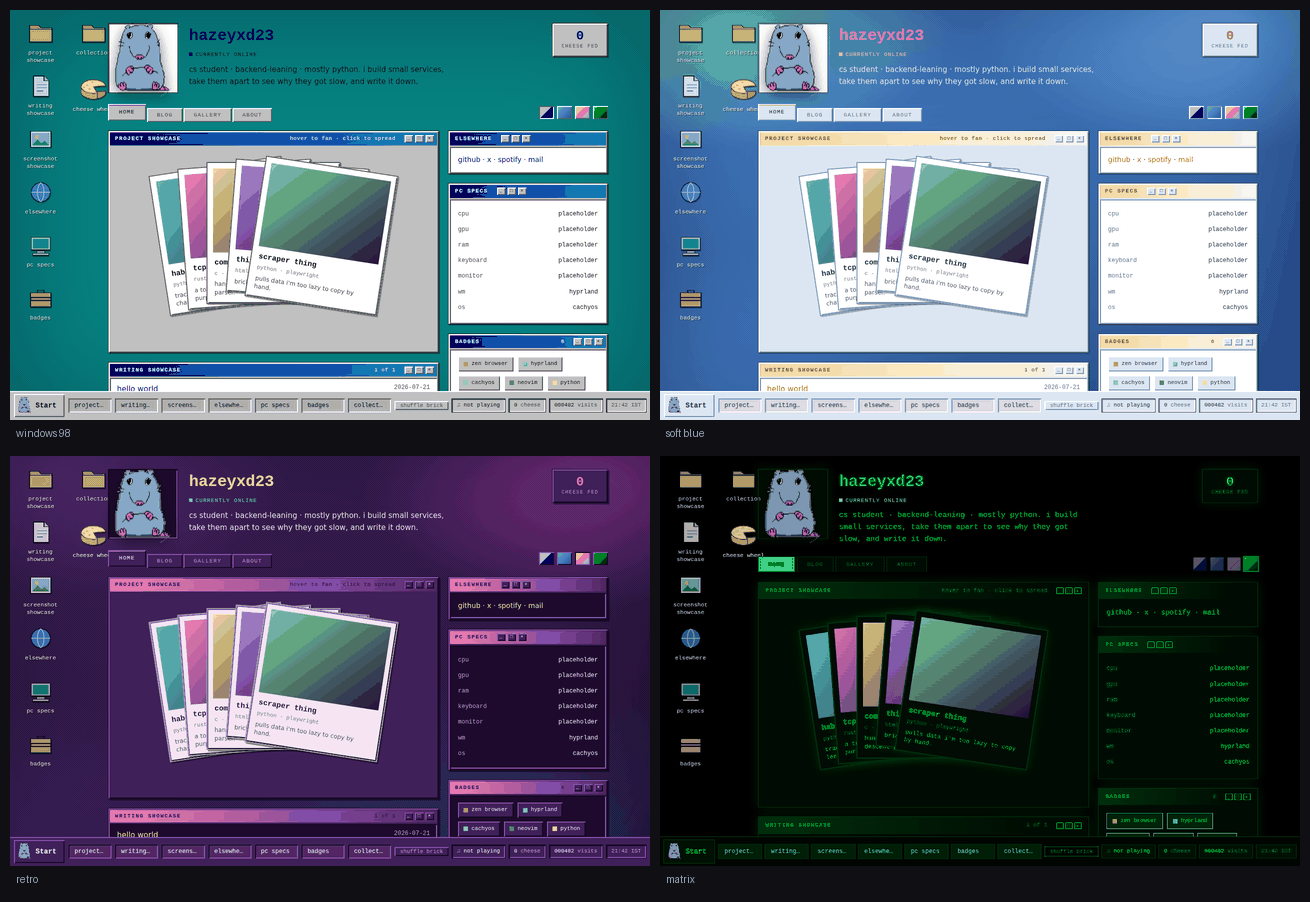
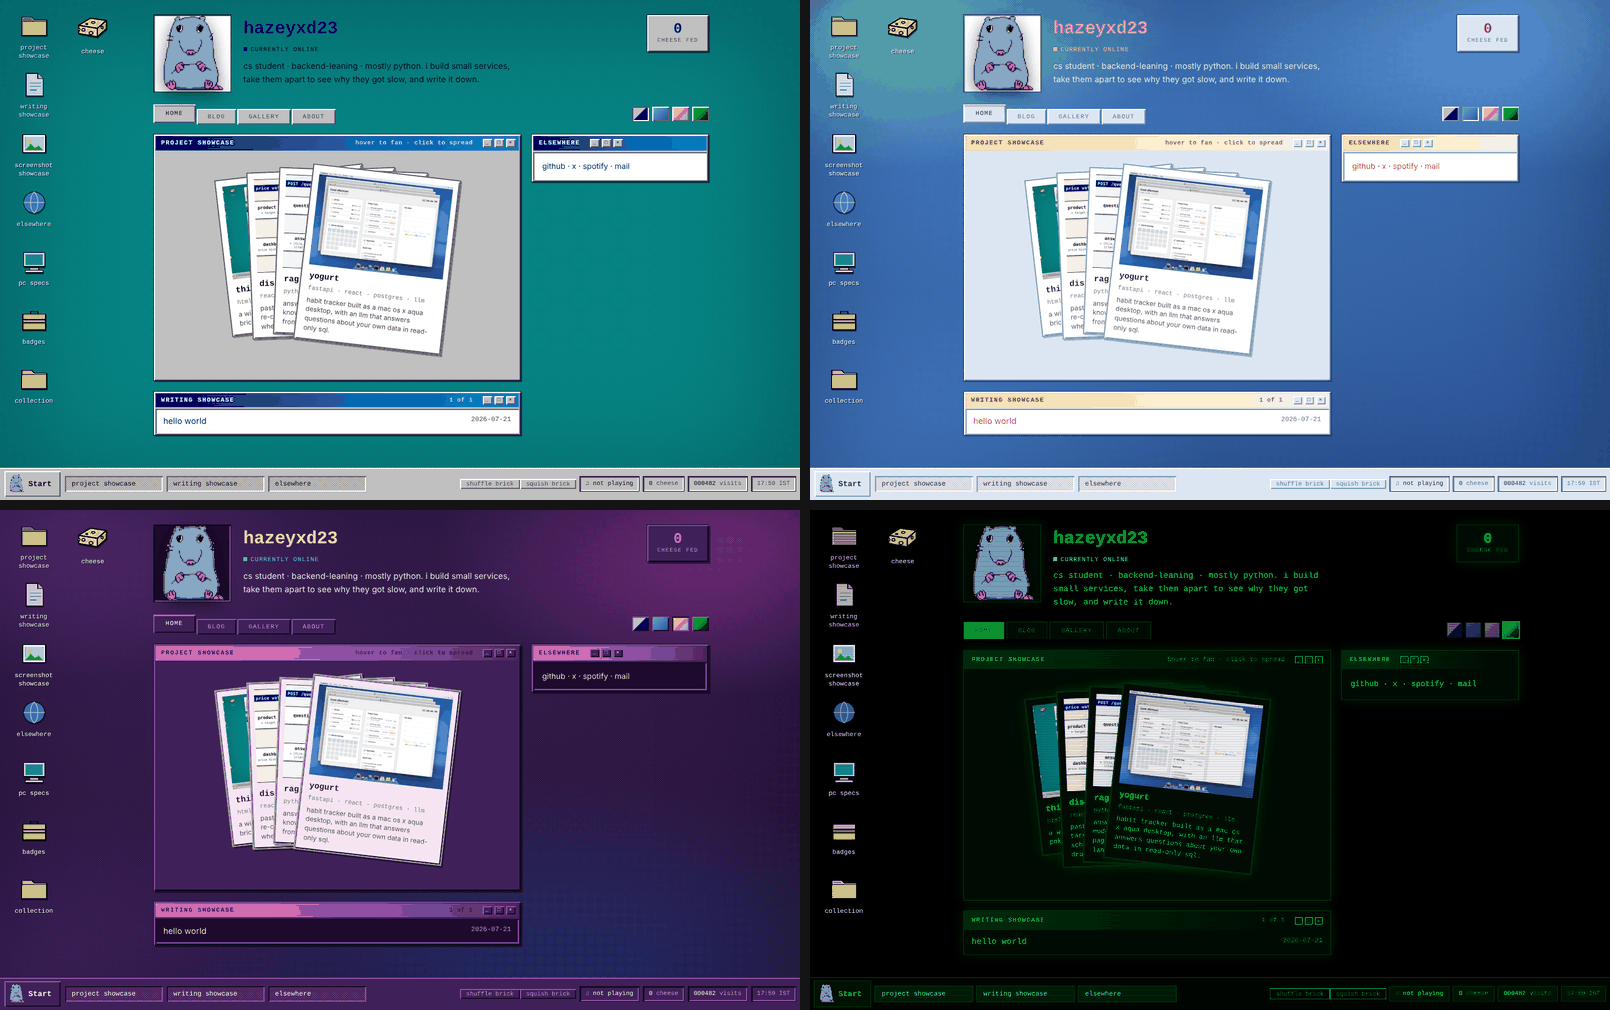
refresh readme screenshots, real project cards

diff --git a/README.md b/README.md
@@ -57,13 +57,15 @@ against rather than a pile of unrelated effects.
   taskbar buttons, a Start menu, right-click menus on the desktop and on window
   chrome, and desktop icons you can rearrange — positions persist between
   visits.
-- **Four themes** that are the same interface in different colours, plus a
-  fifth-column outlier (matrix) that deliberately looks nothing like the others.
+- **Four themes.** Three are the same interface in different colours; the
+  fourth, matrix, is a deliberate outlier that looks nothing like them.
 - **A blog** written in markdown and compiled to static pages by a ~70 line
   renderer in `build.py`.
 - **A project stack** of polaroids that fans on hover and expands the whole
   window when clicked, with each card linking out to its repo.
 - **Brick**, and the cheese.
+
+![The projects window grown to fill the screen, one card per project, each opening its repo](docs/projects.png)
 
 ## Running it locally
 
